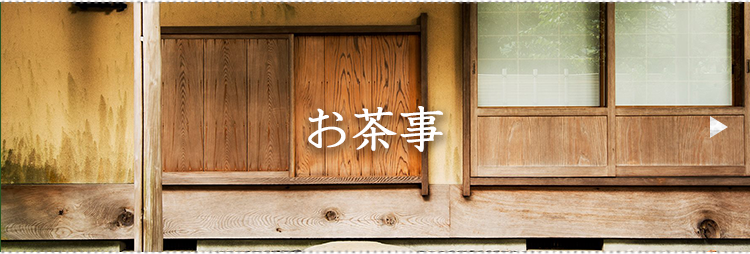
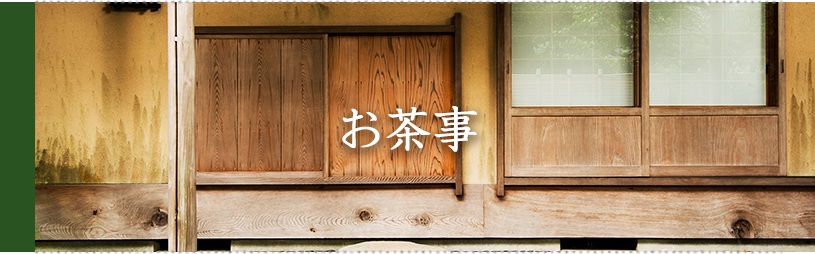
I changed images

diff --git a/coding_/index.php b/coding_/index.php
@@ -35,9 +35,9 @@
       <div class="index-carousel clearfix pc">
         <a class="index-carousel-btn index-carousel-btn-left" href="#"></a>
         <ul class="index-carousel-inner clearfix">
-          <li><img src="./images/pic-index-carousel-01.png" alt=""></li>
-          <li><img src="./images/pic-index-carousel-02.png" alt=""></li>
-          <li><img src="./images/pic-index-carousel-03.png" alt=""></li>
+          <li><img src="./images/pic-index-carousel-01-2.png" alt=""></li>
+          <li><img src="./images/pic-index-carousel-02-2.png" alt=""></li>
+          <li><img src="./images/pic-index-carousel-03-2.png" alt=""></li>
         </ul>
         <a class="index-carousel-btn index-carousel-btn-right" href="#"></a>
       </div>
